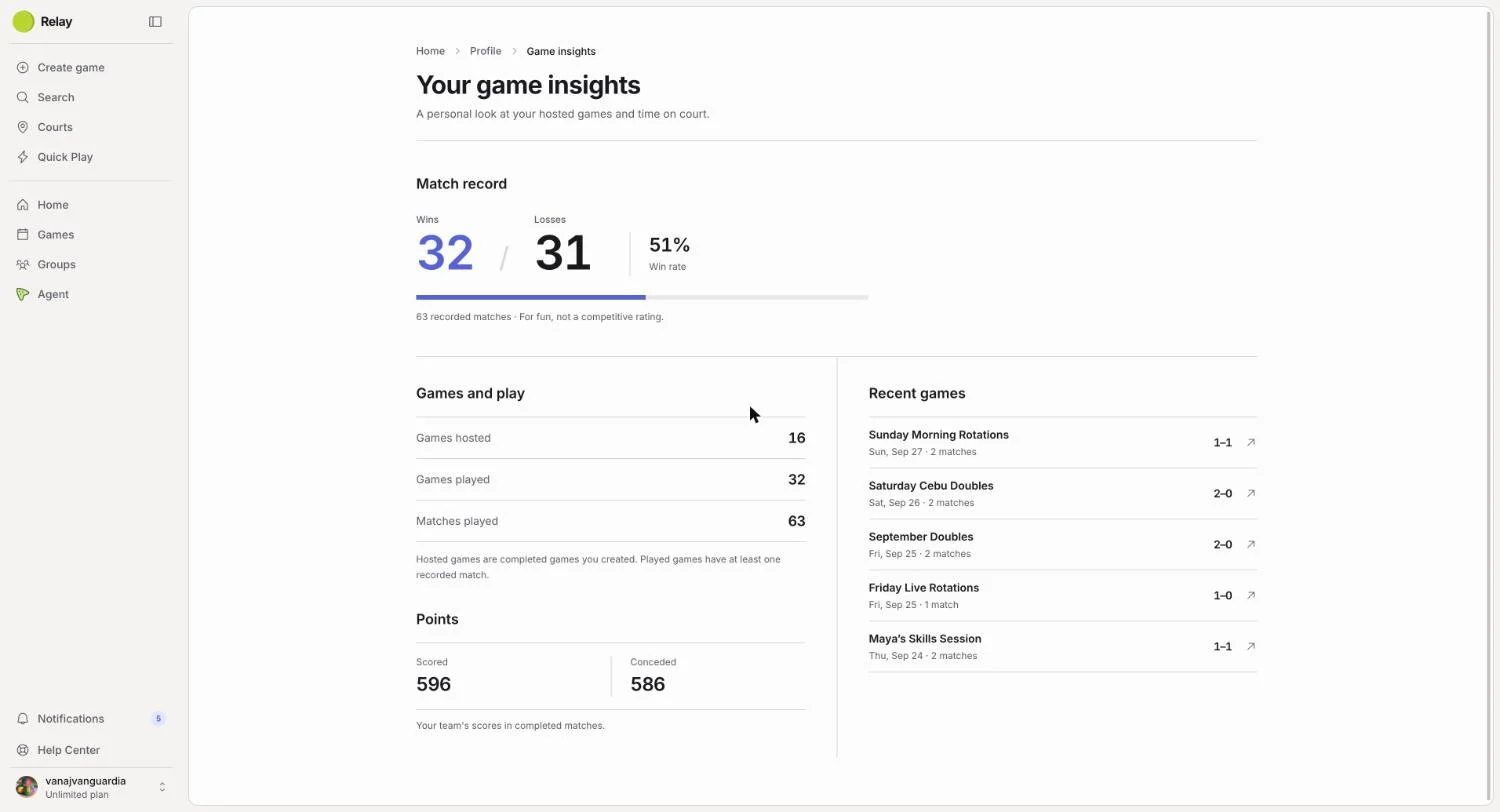
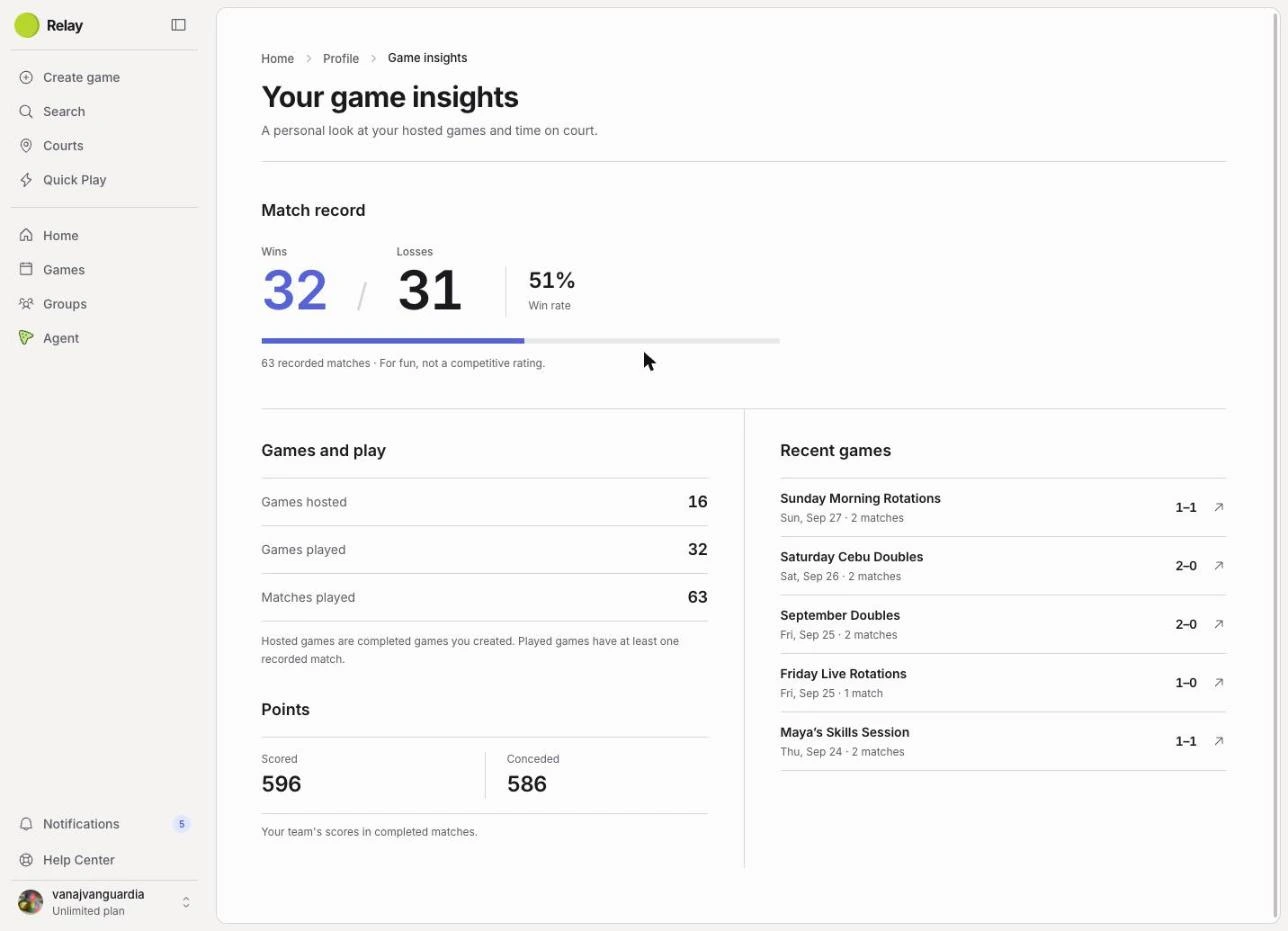
fix(work): Sharpen Relay and Roleway screenshots
## Summary

- The Relay and Roleway screenshots added in #19 were blurry because the browser extension downscaled a 1912px viewport to about 1500px before the site scaled it up again. This recaptures them sharper.

## Changes

- Recapture the Relay landing cover, Relay Court Finder, and Roleway landing cover at 2880×1800 (2× pixel density, webp quality 90).
- Recapture Relay game insights and the Roleway Agent screen at native viewport size (about 1288×930, no downscale).
- Update the image dimensions in `projects.ts`.

## Technical details

- Signed-in screens are 1× because the extension cannot capture at a higher pixel density; the public pages are 2×.
- The Court Finder shot is now the signed-out view, labelled "Try Relay".

## How to test

1. `yarn test` and `yarn typecheck`: passed.
2. `/work/relay` on `yarn dev` at 1440×900 and 2× density: the Court Finder slide is sharp. Other slides were not re-inspected.

## Risk / impact

- Images and their declared dimensions only. The new landing and Court Finder files are about 110–330 KB.

## Companion PRs

- None

## Follow-ups

- None

diff --git a/src/content/projects.ts b/src/content/projects.ts
@@ -165,23 +165,23 @@ const projectEntries = [
       {
         src: "/images/projects/relay/court-finder.webp",
         alt: "Relay Court Finder showing a searchable list of Philippines pickleball courts beside a clustered map with setting, access, parking, price, and availability filters",
-        width: 1506,
-        height: 812,
+        width: 2880,
+        height: 1800,
         label: "Court Finder · 305 places",
       },
       {
         src: "/images/projects/relay/insights.webp",
         alt: "Relay personal game insights showing match record, win rate, games hosted and played, points scored, and recent games",
-        width: 1500,
-        height: 812,
+        width: 1288,
+        height: 931,
         label: "Personal game insights",
       },
     ],
     coverImage: {
       src: "/images/projects/relay/landing-2026-11.webp",
       alt: "Relay landing page headline Plan the game, Share the link, Play, with Create game, Quick Play, Find a court, and Explore open games actions above a sample game preview",
-      width: 1506,
-      height: 812,
+      width: 2880,
+      height: 1800,
     },
     repository: "https://github.com/vn-aj-vngrd/relay",
     liveUrl: "https://relay.vanajvanguardia.tech/",
@@ -327,8 +327,8 @@ const projectEntries = [
       {
         src: "/images/projects/roleway/agent-workspaces.webp",
         alt: "Roleway Agent opened across all Workspaces with a message box, a plus menu for Create and Explore actions, and a model selector",
-        width: 1502,
-        height: 812,
+        width: 1288,
+        height: 930,
         label: "Agent across Workspaces",
       },
       {
@@ -342,8 +342,8 @@ const projectEntries = [
     coverImage: {
       src: "/images/projects/roleway/landing-2026-11.webp",
       alt: "Roleway landing page headline Your job search with a clear next move, above a sample Workspace of Opportunities grouped by stage with Next Actions",
-      width: 1502,
-      height: 812,
+      width: 2880,
+      height: 1800,
     },
     repository: "https://github.com/vn-aj-vngrd/roleway",
     liveUrl: "https://roleway.vanajvanguardia.tech/",
